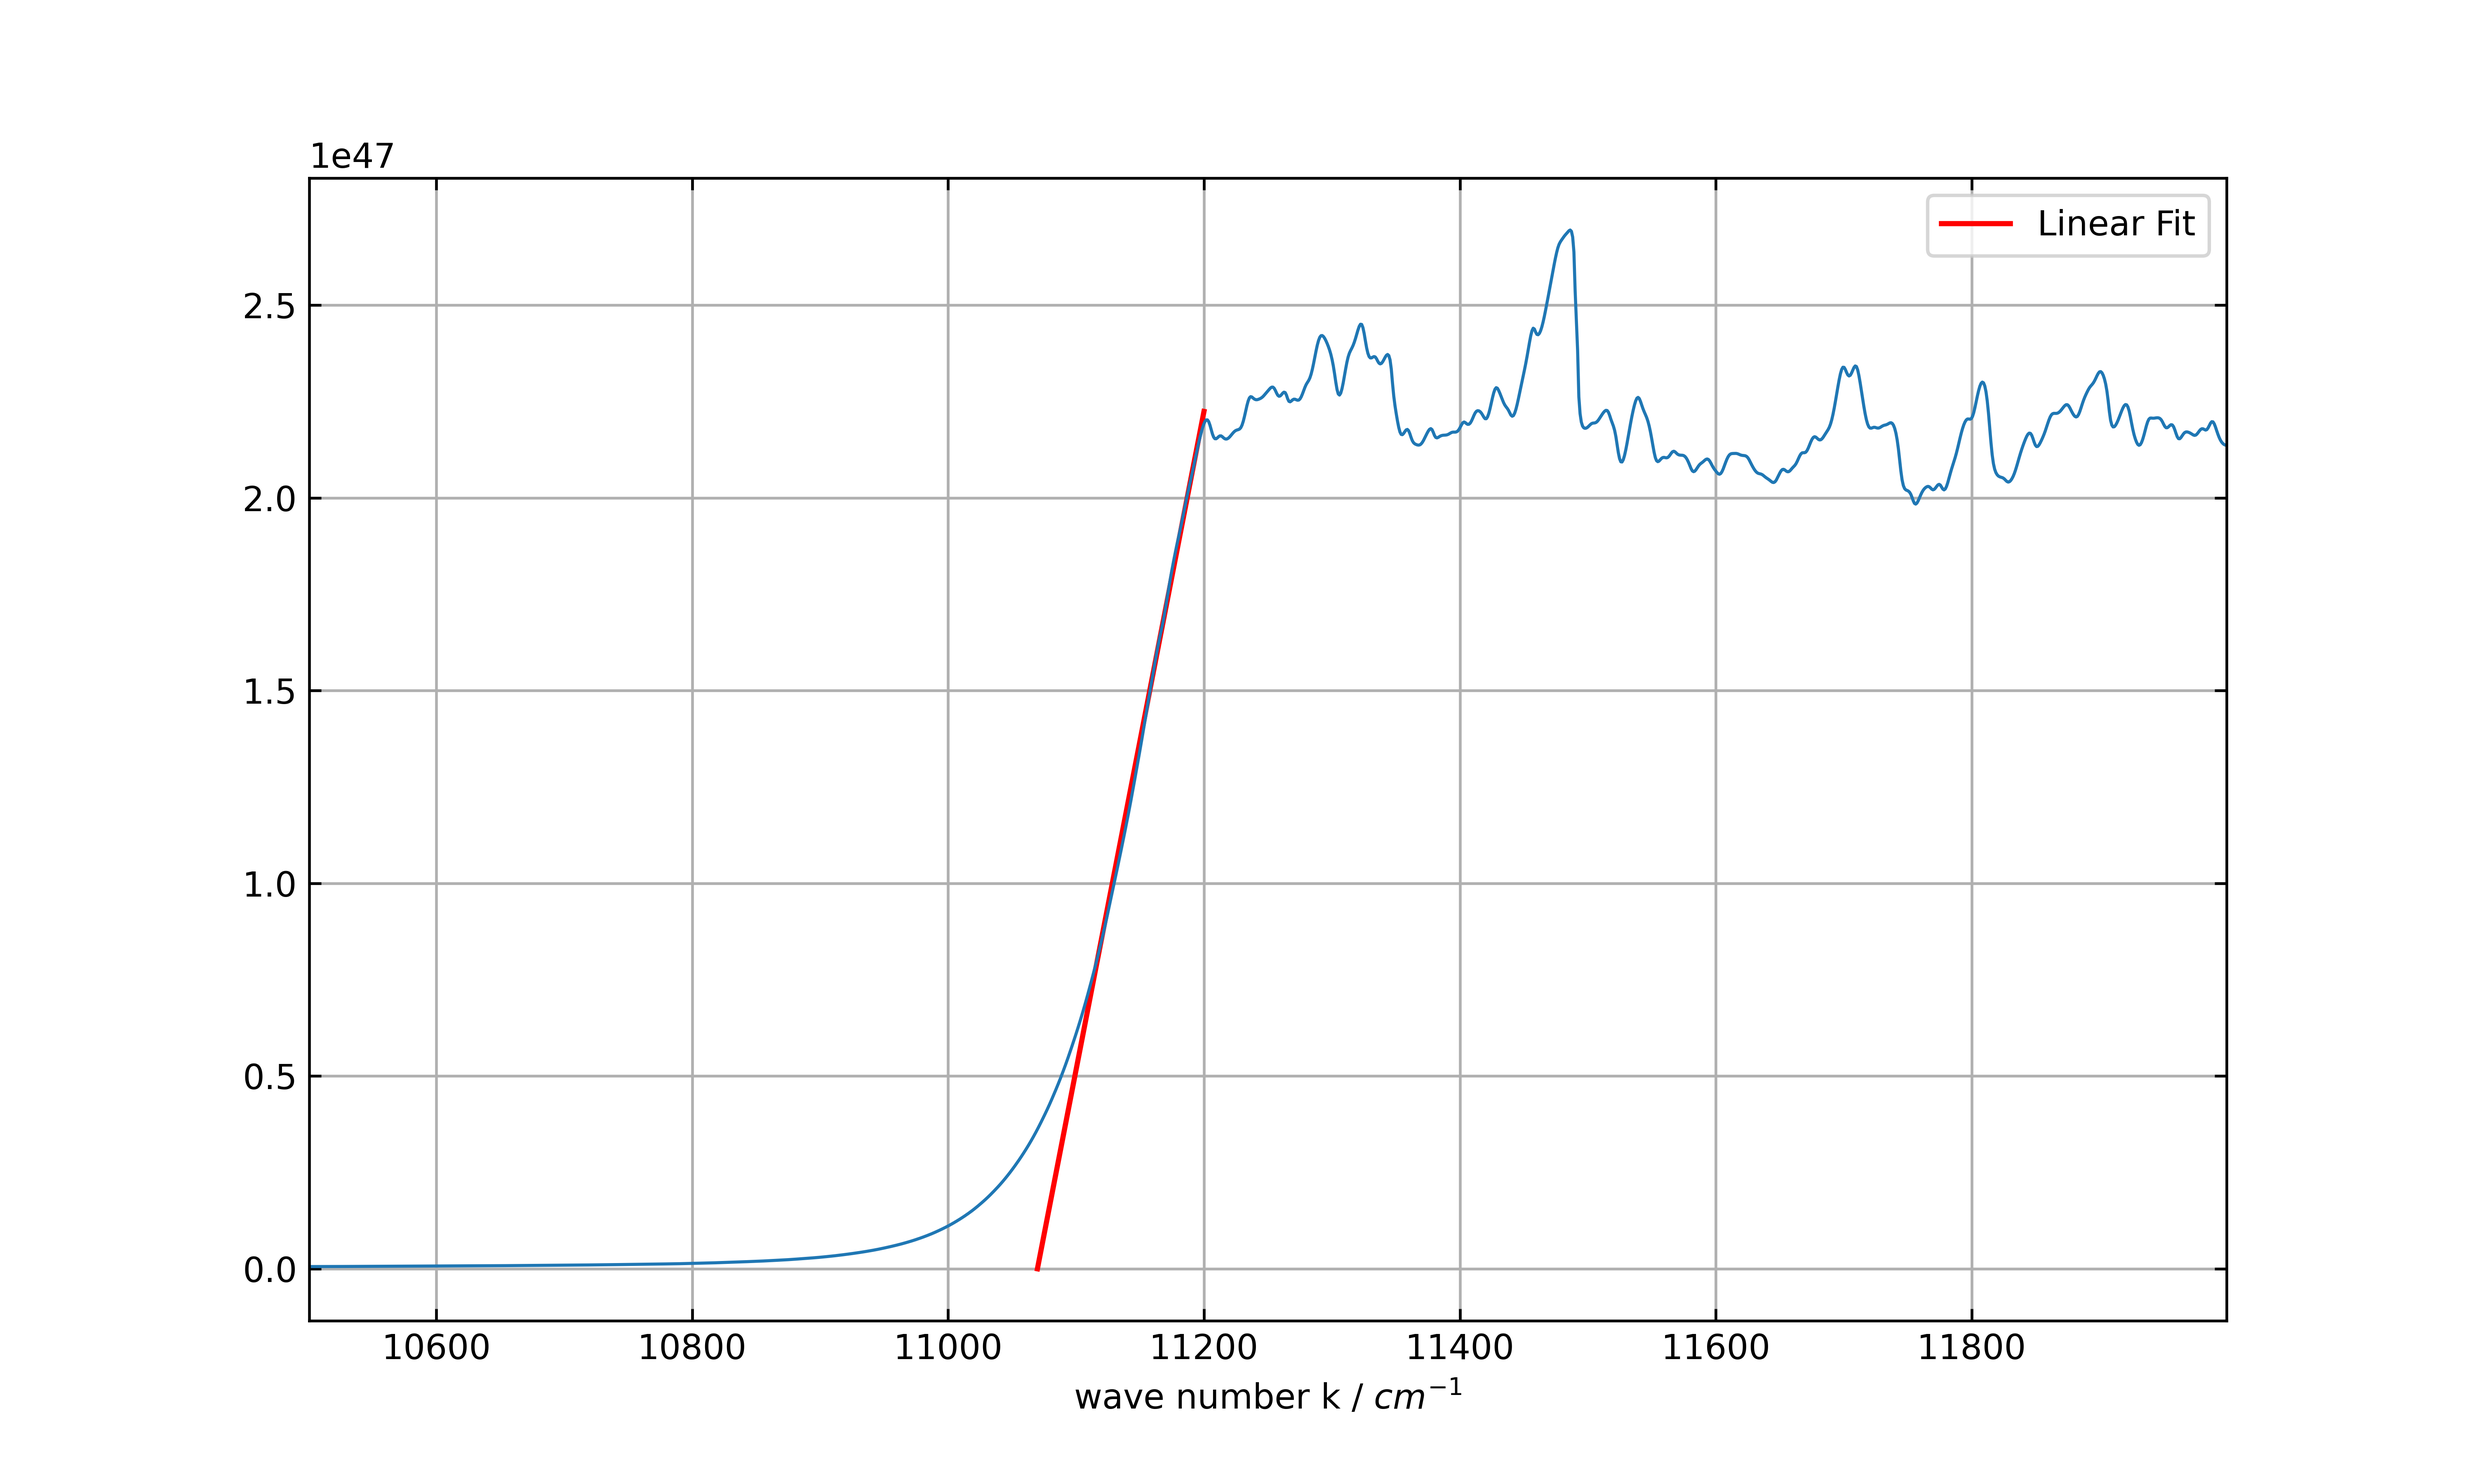
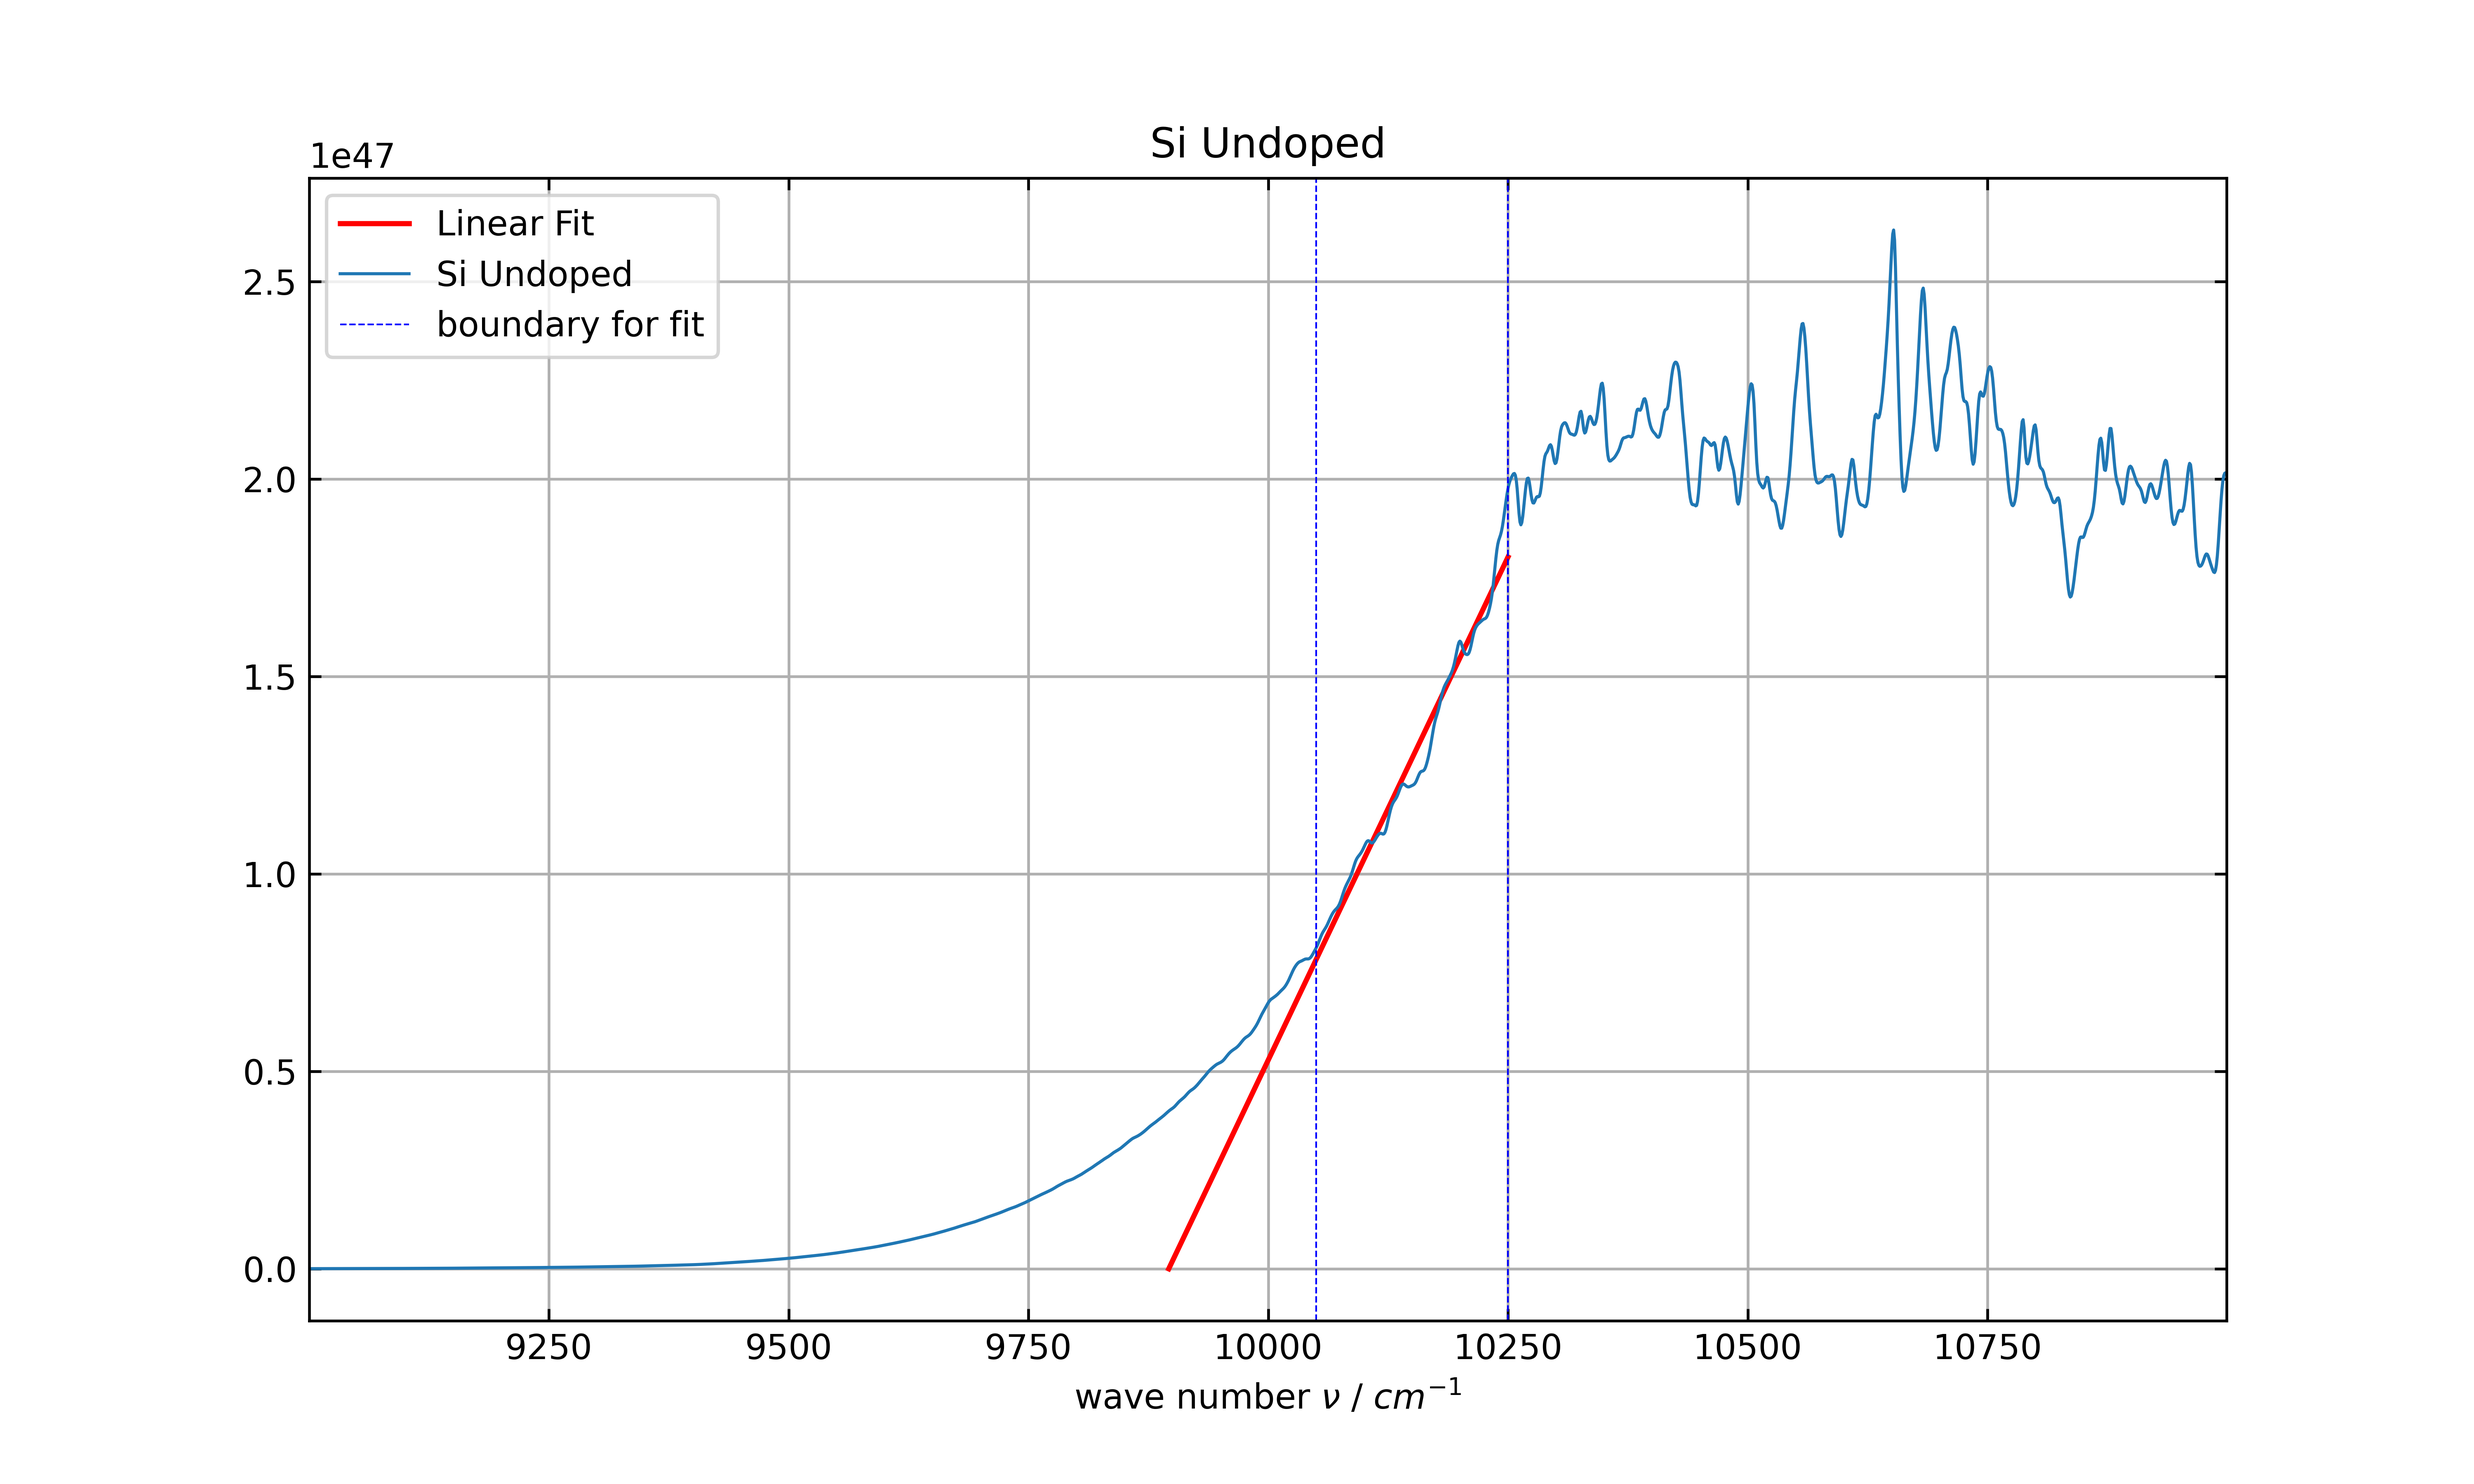
komische Funktion geplotted

diff --git a/SolidStateOptics/exp4.py b/SolidStateOptics/exp4.py
@@ -7,6 +7,7 @@ from scipy.optimize import fsolve
 from Frauen import bügeln
 import os, sys
 sys.path.insert(1, "/".join(os.path.realpath(__file__).split("/")[0:-2]))
+from macroswriter import writeLatexMacro
 
 
 e = const.e  # Elementary charge in Coulombs
@@ -91,10 +92,10 @@ def plot_the_betas():
         for i in calculate_beta_and_R(reflection, transmission):
             beta.append([i[0], i[1]])
         plot_data(beta, label=label)
-        plt.xlabel('wave number k / ' + r'$cm^{-1}$')
+        plt.xlabel(r'wave number $\nu$ / ' + r'$cm^{-1}$')
         plt.ylabel('beta')
 
-    plt.xlabel('wave number k / ' + r'$cm^{-1}$')
+    plt.xlabel(r'wave number \nu / ' + r'$cm^{-1}$')
     plt.ylabel('beta')
     save_and_open('foo')
     
@@ -123,7 +124,7 @@ def calculate_KomischeFunktion(reflection, transmission):
     return komischeFunktion
 
 
-def plotKomischeFunktion(reflection, transmission, k_min, k_max, k_min_regression, k_max_regression, glättwert=0.01):
+def plotKomischeFunktion(reflection, transmission, k_min, k_max, k_min_regression, k_max_regression, glättwert=0.01, title="foo"):
     komischeFunktion = bügeln(calculate_KomischeFunktion(reflection, transmission),glättwert)
     
     chopped = k_chopper(komischeFunktion, k_min=k_min_regression, k_max=k_max_regression)
@@ -134,10 +135,17 @@ def plotKomischeFunktion(reflection, transmission, k_min, k_max, k_min_regressio
     plt.plot(x_vals, y_vals, label='Linear Fit', color='red', linestyle='-')  # Plot the line
     plt.legend()
         
-    plot_data(k_chopper(komischeFunktion,k_min, k_max))
+    plot_data(k_chopper(komischeFunktion,k_min, k_max), label=title)
     
-    plt.xlabel('wave number k / ' + r'$cm^{-1}$')    
-    save_and_open("foo")
+    # Plot a vertical line at k_min_regression
+    plt.axvline(x=k_min_regression, color='blue', linestyle='--', label='boundary for fit', linewidth=0.5)
+    plt.legend()
+    plt.axvline(x=k_max_regression, color='blue', linestyle='--', linewidth =0.5)
+    
+    writeLatexMacro('bandgap_' + title, x_intercept*100*c*hbar/e*2*np.pi, 'eV')
+    
+    plt.xlabel(r'wave number $\nu$ / ' + r'$cm^{-1}$')    
+    save_and_open(filename=title)
     
 def linear_regression(komischeFunktion):
     """
@@ -203,7 +211,14 @@ samplesOhneSiUn = [
 # save_and_open('foo')
 
 
-plotKomischeFunktion(reflectionGaAsDo, transmissionGaAsDo, 10500, 12000, 11150, 11200, glättwert=0.03)
+plotKomischeFunktion(reflectionGaAsDo, transmissionGaAsDo, 10500, 12000, 11120, 11200, glättwert=0.03, title="GaAs Doped")
+plotKomischeFunktion(reflectionGaAsUnDo, transmissionGaAsUnDo, 11000, 11400, 11230, 11280, glättwert=0.1, title="GaAs Undoped")
+plotKomischeFunktion(reflectionGaSbDo, transmissionGaSbDo, 5000, 6000, 5600, 5680, glättwert=0.1, title="GaSb Doped")
+plotKomischeFunktion(reflectionSiUnDo, transmissionSiUnDo, 9000, 11000, 10050, 10250, glättwert=0.1, title="Si Undoped")
+
+
+
+
 #plot_the_ns(0.005)
 
 

diff --git a/Paper/macros.tex b/Paper/macros.tex
@@ -1,2 +1,7 @@
 \newcommand{\testOhneFehler}{1.235 \times 10^{8}\,\frac{1}{m}}
 \newcommand{\testMitFehler}{(1.23 \pm 0.20) \times 10^{8}\,\frac{1}{m}}
+\newcommand{\bandgap_foo}{1.224 \times 10^{0}\,eV}
+\newcommand{\bandgap_GaAs Doped}{1.373 \times 10^{0}\,eV}
+\newcommand{\bandgap_GaAs Undoped}{1.389 \times 10^{0}\,eV}
+\newcommand{\bandgap_GaSb Doped}{6.891 \times 10^{-1}\,eV}
+\newcommand{\bandgap_Si Undoped}{1.227 \times 10^{0}\,eV}
